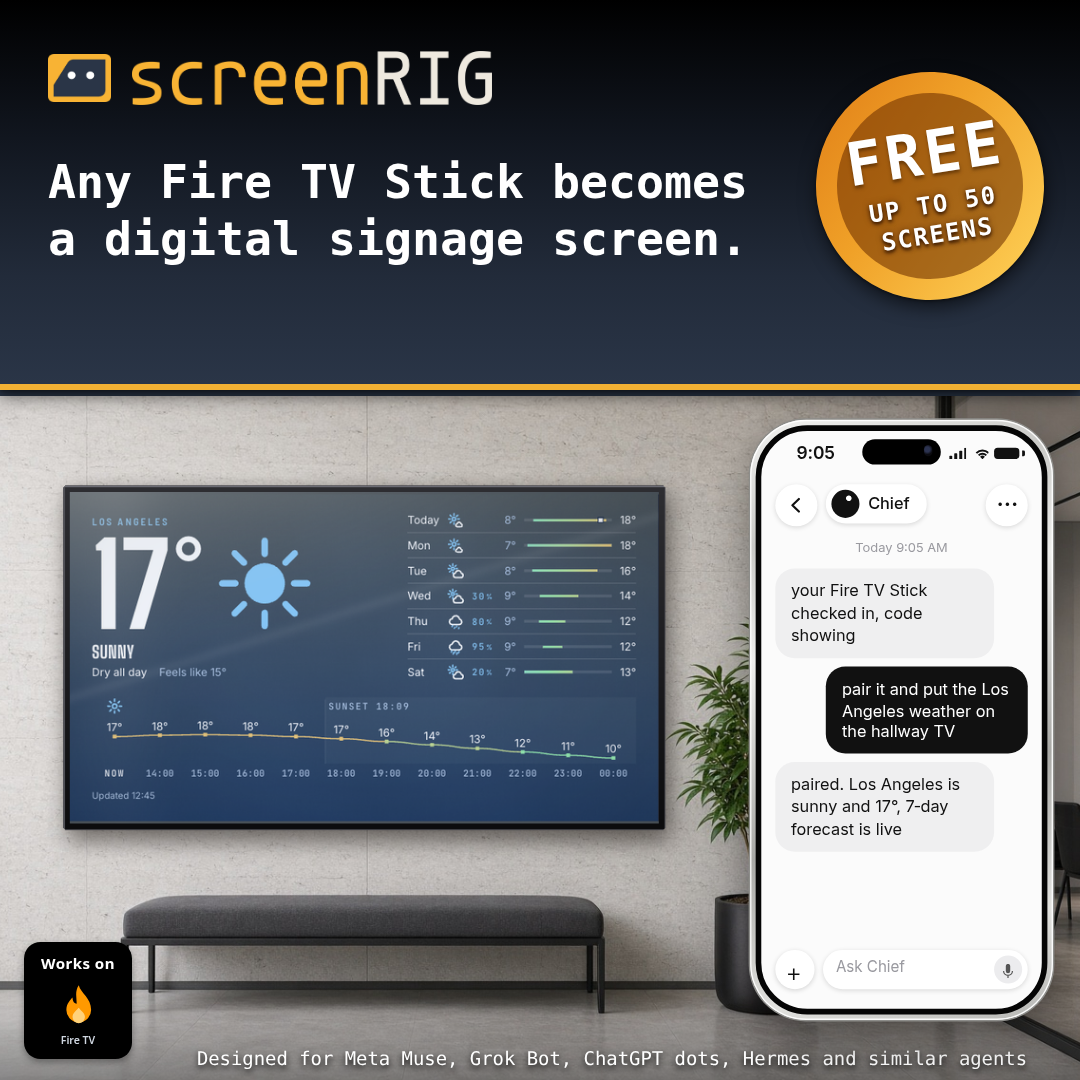
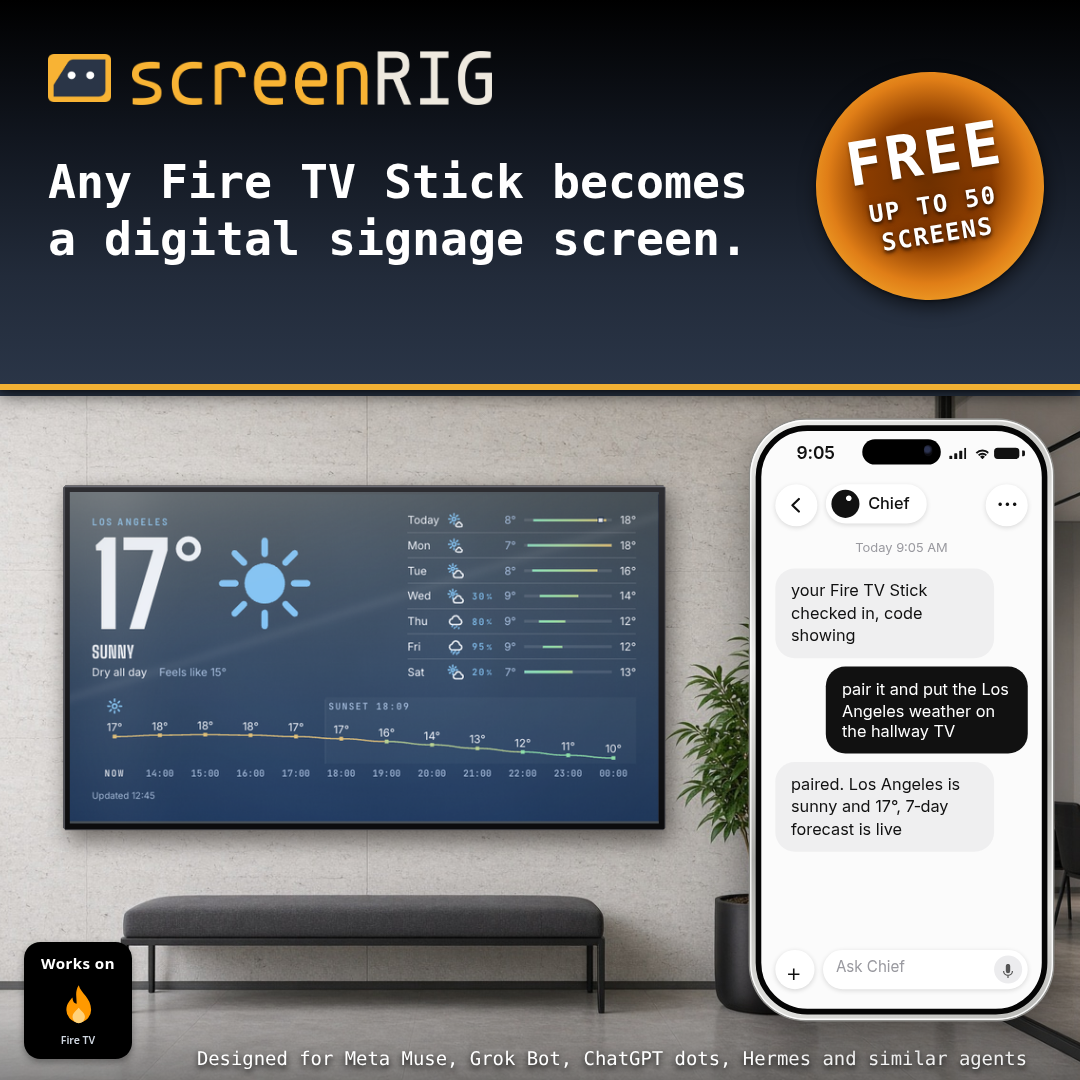
FREE badge: radial gradient (light amber rim → dark solid center), no stitch; rebuild board + re-export all 21 samples

Changed region(s): [[0.7639, 0.0611, 0.9778, 0.275]]

diff --git a/creatives-review.html b/creatives-review.html
@@ -33,11 +33,11 @@ textarea{width:100%;min-height:52px;background:#1a2130;color:var(--tx);border:1p
 .rib{position:absolute;top:24px;right:-56px;width:220px;transform:rotate(45deg);background:var(--mus);color:#fff;text-align:center;padding:3px 0;z-index:3}
 .rib b{display:block;font-size:22px;letter-spacing:2px;line-height:1}.rib span{font-size:7.5px;letter-spacing:1px;color:#2a3547;font-weight:700}
 .mock.hdr-badge .plate{background:linear-gradient(0deg,#2a3547 0%,#222b3a 28%,#11161f 64%,#000 100%);box-shadow:0 2.2px 5px rgba(0,0,0,.55),0 .6px 1.2px rgba(0,0,0,.35);z-index:2}
-.badge{position:absolute;right:26px;top:17px;width:90px;height:90px;border-radius:50%;z-index:3;transform:rotate(-9deg);background:radial-gradient(circle at 50% 45%,rgba(110,48,0,.92) 0%,rgba(130,58,0,.75) 42%,#e8a020 68%,#ffd45a 100%);box-shadow:0 2.5px 6px rgba(0,0,0,.55),0 .5px 1px rgba(0,0,0,.4);display:flex;flex-direction:column;align-items:center;justify-content:center;color:#fff;font-family:ui-monospace,Menlo,Consolas,monospace;text-align:center}
-.badge.badge-sm:after{inset:7px}
+.badge{position:absolute;right:26px;top:17px;width:90px;height:90px;border-radius:50%;z-index:3;transform:rotate(-9deg);background:radial-gradient(circle at 50% 48%,#6e3000 0%,#8a3c00 38%,#e07e17 62%,#f0a128 78%,#ffd45a 100%);box-shadow:0 2.5px 6px rgba(0,0,0,.55),0 .5px 1px rgba(0,0,0,.4);display:flex;flex-direction:column;align-items:center;justify-content:center;color:#fff;font-family:ui-monospace,Menlo,Consolas,monospace;text-align:center}
+
 .badge.badge-sm{width:76px;height:76px;right:12px;top:24px}.badge.badge-sm b{font-size:20px}.badge.badge-sm span{font-size:8px;margin-top:3.5px}
 .badge:before{display:none}
-.badge:after{display:none} /* badge-inner-fill via radial */
+.badge:after{content:none} /* radial fill on .badge replaces inner disc */
 .badge b{position:relative;z-index:3;font-size:24px;font-weight:800;letter-spacing:1.2px;line-height:1;text-shadow:0 1px 1.1px rgba(70,35,0,.6)}
 .badge span{position:relative;z-index:3;font-size:9.2px;font-weight:800;letter-spacing:.55px;line-height:1.2;margin-top:5px;color:#fff;text-shadow:0 .8px 1.2px rgba(50,20,0,.95),0 0 2px rgba(80,35,0,.7)}
 .scene{position:absolute;top:132px;left:0;right:0;bottom:0}

diff --git a/index.html b/index.html
@@ -33,11 +33,11 @@ textarea{width:100%;min-height:52px;background:#1a2130;color:var(--tx);border:1p
 .rib{position:absolute;top:24px;right:-56px;width:220px;transform:rotate(45deg);background:var(--mus);color:#fff;text-align:center;padding:3px 0;z-index:3}
 .rib b{display:block;font-size:22px;letter-spacing:2px;line-height:1}.rib span{font-size:7.5px;letter-spacing:1px;color:#2a3547;font-weight:700}
 .mock.hdr-badge .plate{background:linear-gradient(0deg,#2a3547 0%,#222b3a 28%,#11161f 64%,#000 100%);box-shadow:0 2.2px 5px rgba(0,0,0,.55),0 .6px 1.2px rgba(0,0,0,.35);z-index:2}
-.badge{position:absolute;right:26px;top:17px;width:90px;height:90px;border-radius:50%;z-index:3;transform:rotate(-9deg);background:radial-gradient(circle at 50% 45%,rgba(110,48,0,.92) 0%,rgba(130,58,0,.75) 42%,#e8a020 68%,#ffd45a 100%);box-shadow:0 2.5px 6px rgba(0,0,0,.55),0 .5px 1px rgba(0,0,0,.4);display:flex;flex-direction:column;align-items:center;justify-content:center;color:#fff;font-family:ui-monospace,Menlo,Consolas,monospace;text-align:center}
-.badge.badge-sm:after{inset:7px}
+.badge{position:absolute;right:26px;top:17px;width:90px;height:90px;border-radius:50%;z-index:3;transform:rotate(-9deg);background:radial-gradient(circle at 50% 48%,#6e3000 0%,#8a3c00 38%,#e07e17 62%,#f0a128 78%,#ffd45a 100%);box-shadow:0 2.5px 6px rgba(0,0,0,.55),0 .5px 1px rgba(0,0,0,.4);display:flex;flex-direction:column;align-items:center;justify-content:center;color:#fff;font-family:ui-monospace,Menlo,Consolas,monospace;text-align:center}
+
 .badge.badge-sm{width:76px;height:76px;right:12px;top:24px}.badge.badge-sm b{font-size:20px}.badge.badge-sm span{font-size:8px;margin-top:3.5px}
 .badge:before{display:none}
-.badge:after{display:none} /* badge-inner-fill via radial */
+.badge:after{content:none} /* radial fill on .badge replaces inner disc */
 .badge b{position:relative;z-index:3;font-size:24px;font-weight:800;letter-spacing:1.2px;line-height:1;text-shadow:0 1px 1.1px rgba(70,35,0,.6)}
 .badge span{position:relative;z-index:3;font-size:9.2px;font-weight:800;letter-spacing:.55px;line-height:1.2;margin-top:5px;color:#fff;text-shadow:0 .8px 1.2px rgba(50,20,0,.95),0 0 2px rgba(80,35,0,.7)}
 .scene{position:absolute;top:132px;left:0;right:0;bottom:0}
